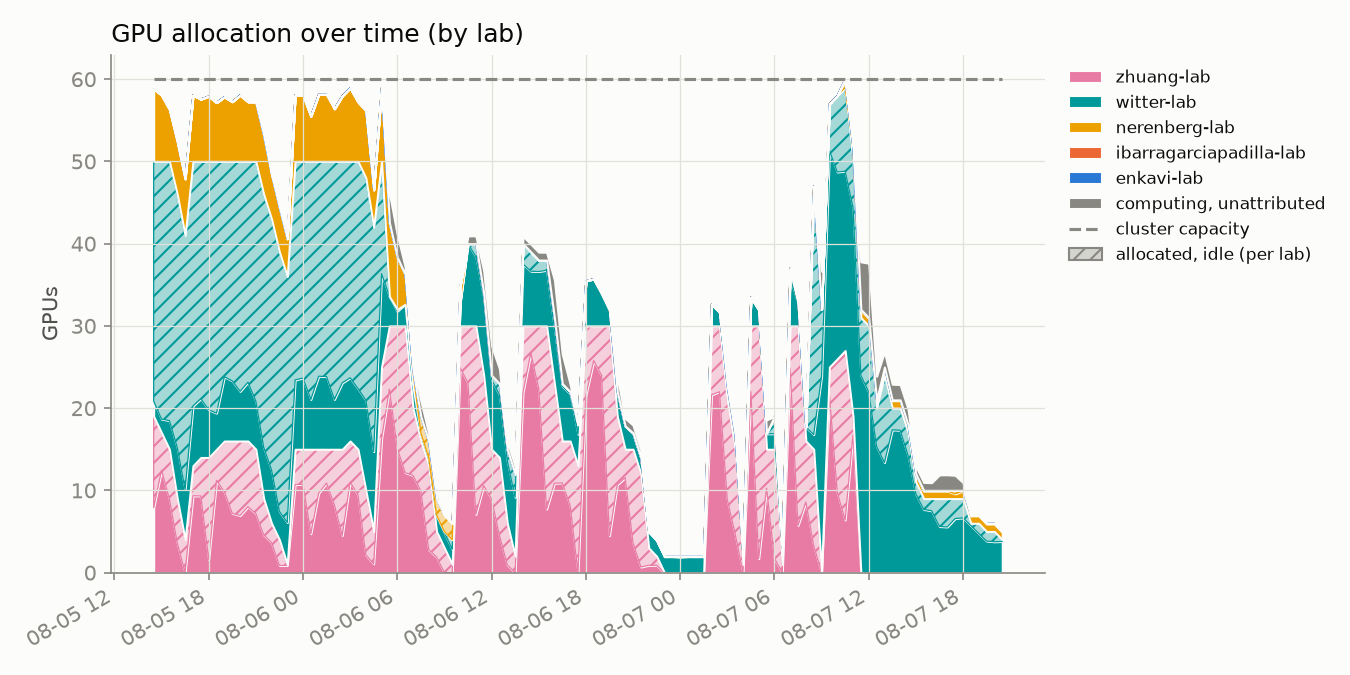
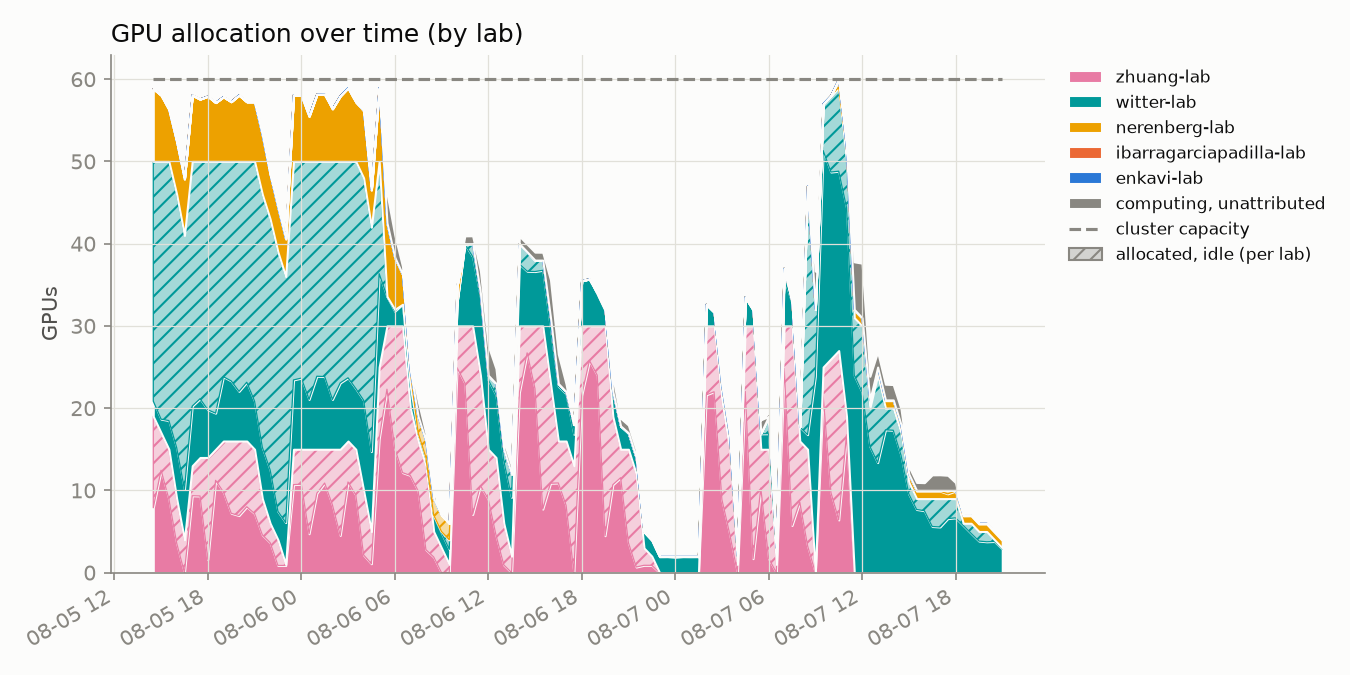
update 2026-08-07T21:00:01-07:00

diff --git a/README.md b/README.md
@@ -2,8 +2,8 @@
 
 Automated GPU/CPU/queue utilization tracker for `hopper.cluster`, updated every 30 minutes by cron. Usernames are anonymized to a stable per-account pseudonym; lab names are real.
 
-Last updated: 2026-08-07T20:30:14-07:00
-Samples: 109 queue snapshots, 109 GPU snapshots
+Last updated: 2026-08-07T21:00:08-07:00
+Samples: 110 queue snapshots, 110 GPU snapshots
 
 ## Resources
 
@@ -16,8 +16,8 @@ Samples: 109 queue snapshots, 109 GPU snapshots
 
 ## Headline
 
-- **49.7%** of the cluster's 60 GPUs allocated, averaged across all samples
-- **46.4%** average `nvidia-smi` utilization *when* a GPU is allocated to a job
+- **49.3%** of the cluster's 60 GPUs allocated, averaged across all samples
+- **46.5%** average `nvidia-smi` utilization *when* a GPU is allocated to a job
 - **87.2%** average cgroup CPU utilization *when* a CPU is allocated to a job
 
 ## Per lab / per user
@@ -26,14 +26,14 @@ Samples: 109 queue snapshots, 109 GPU snapshots
 <tr><th>Lab</th><th>User</th><th align='right'>GPU-hours allocated</th><th align='right'>CPU-hours allocated</th><th align='right'>GPU utilization</th></tr>
 <tr style='background-color:#fbebf1'><td>zhuang-lab</td><td>user-0db9ced0</td><td align='right'>722.0</td><td align='right'>722.0</td><td align='right'>48%</td></tr>
 <tr style='background-color:#d8efef'><td>witter-lab</td><td>user-d58f5a15</td><td align='right'>467.5</td><td align='right'>3740.0</td><td align='right'>9%</td></tr>
-<tr style='background-color:#d8efef'><td>witter-lab</td><td>user-554c620c</td><td align='right'>386.5</td><td align='right'>884.0</td><td align='right'>66%</td></tr>
+<tr style='background-color:#d8efef'><td>witter-lab</td><td>user-554c620c</td><td align='right'>388.0</td><td align='right'>885.5</td><td align='right'>66%</td></tr>
 <tr style='background-color:#fcf0d8'><td>nerenberg-lab</td><td>user-6bb5f332</td><td align='right'>40.0</td><td align='right'>200.0</td><td align='right'>71%</td></tr>
-<tr style='background-color:#fcf0d8'><td>nerenberg-lab</td><td>user-fedb5feb</td><td align='right'>10.5</td><td align='right'>42.0</td><td align='right'>55%</td></tr>
-<tr style='background-color:#fce8e0'><td>ibarragarciapadilla-lab</td><td>user-dad71a72</td><td align='right'>0.0</td><td align='right'>6.0</td><td align='right'>—</td></tr>
+<tr style='background-color:#fcf0d8'><td>nerenberg-lab</td><td>user-fedb5feb</td><td align='right'>11.0</td><td align='right'>42.5</td><td align='right'>56%</td></tr>
 <tr style='background-color:#fcf0d8'><td>nerenberg-lab</td><td>user-b12dc074</td><td align='right'>0.0</td><td align='right'>16.0</td><td align='right'>—</td></tr>
-<tr style='background-color:#fce8e0'><td>ibarragarciapadilla-lab</td><td>user-3cfc41a3</td><td align='right'>0.0</td><td align='right'>3742.5</td><td align='right'>—</td></tr>
-<tr style='background-color:#fce8e0'><td>ibarragarciapadilla-lab</td><td>user-eec7ffae</td><td align='right'>0.0</td><td align='right'>426.5</td><td align='right'>—</td></tr>
+<tr style='background-color:#fce8e0'><td>ibarragarciapadilla-lab</td><td>user-3cfc41a3</td><td align='right'>0.0</td><td align='right'>3750.0</td><td align='right'>—</td></tr>
 <tr style='background-color:#dfeaf8'><td>enkavi-lab</td><td>user-c21bdaa4</td><td align='right'>0.0</td><td align='right'>171.0</td><td align='right'>—</td></tr>
+<tr style='background-color:#fce8e0'><td>ibarragarciapadilla-lab</td><td>user-dad71a72</td><td align='right'>0.0</td><td align='right'>6.0</td><td align='right'>—</td></tr>
+<tr style='background-color:#fce8e0'><td>ibarragarciapadilla-lab</td><td>user-eec7ffae</td><td align='right'>0.0</td><td align='right'>426.5</td><td align='right'>—</td></tr>
 </table>
 
 ## Usage over time
@@ -44,7 +44,7 @@ Samples: 109 queue snapshots, 109 GPU snapshots
 
 Solid = utilized by lab, hatched = allocated but idle, gray = usage not traceable to a lab, dashed line = cluster capacity.
 
-Attribution combines `nvidia-smi`'s process listing with Slurm's GPU-to-job binding record; the latter caught **2431** readings the former missed.
+Attribution combines `nvidia-smi`'s process listing with Slurm's GPU-to-job binding record; the latter caught **2433** readings the former missed.
 
 ## Queue
 
@@ -56,13 +56,13 @@ Attribution combines `nvidia-smi`'s process listing with Slurm's GPU-to-job bind
 
 ![CPU usage vs GPU usage, decayed](assets/cpu_gpu_usage.png)
 
-One point per user per snapshot (n=528), usage decayed on Slurm's ~7-day fairshare half-life.
+One point per user per snapshot (n=532), usage decayed on Slurm's ~7-day fairshare half-life.
 
 **GPU usage doesn't count toward priority on this cluster** (`TRESBillingWeights`/`PriorityWeightTRES` unset) - watch the **upper-left**: low CPU usage (high priority) with high GPU usage.
 
 ## Recommendations
 
-1. **Weight GPU usage in fairshare.** `TRESBillingWeights` and `PriorityWeightTRES` are both unset right now, so Slurm's fairshare score only sees CPU-seconds - a job holding 4 idle L40S GPUs costs nothing in priority as long as it isn't also holding CPUs. That's the exact failure mode the scatter above is built to catch (upper-left: low CPU usage, high GPU usage). Fix: `scontrol update partition=main TRESBillingWeights=CPU=1.0,GRES/gpu=<weight>` (or set `PriorityWeightTRES` cluster-wide), then `scontrol reconfigure` - a full `slurmctld` restart also works but drops in-flight priority state. A reasonable starting point for `<weight>` is the CPUs-per-GPU ratio on a GPU node (128 CPUs / 4 GPUs = 32), so one GPU costs as much fairshare as the CPU share it displaces; tune from there against next week's headline numbers (49.7% allocated, 46.4% utilized when allocated, as of this snapshot). The weight value itself is a policy call - loop in whoever owns cluster allocation policy before changing it.
+1. **Weight GPU usage in fairshare.** `TRESBillingWeights` and `PriorityWeightTRES` are both unset right now, so Slurm's fairshare score only sees CPU-seconds - a job holding 4 idle L40S GPUs costs nothing in priority as long as it isn't also holding CPUs. That's the exact failure mode the scatter above is built to catch (upper-left: low CPU usage, high GPU usage). Fix: `scontrol update partition=main TRESBillingWeights=CPU=1.0,GRES/gpu=<weight>` (or set `PriorityWeightTRES` cluster-wide), then `scontrol reconfigure` - a full `slurmctld` restart also works but drops in-flight priority state. A reasonable starting point for `<weight>` is the CPUs-per-GPU ratio on a GPU node (128 CPUs / 4 GPUs = 32), so one GPU costs as much fairshare as the CPU share it displaces; tune from there against next week's headline numbers (49.3% allocated, 46.5% utilized when allocated, as of this snapshot). The weight value itself is a policy call - loop in whoever owns cluster allocation policy before changing it.
 
 2. **Escalate on sustained low utilization** (see table and scatter above). Right now the clearest candidate is `user-d58f5a15` in `witter-lab`: 467.5 GPU-hours allocated at 9% average utilization, i.e. roughly 424 GPU-hours that sat idle instead of going to someone in the queue. Turning that into an automated escalation needs two decisions made up front: a utilization threshold (something like under 20% mean utilization over at least 50 allocated GPU-hours is a defensible starting bar - loose enough to skip short debugging runs, tight enough to catch parked allocations) and a grace period (how many consecutive low-utilization snapshots before it counts as "sustained" rather than a momentary lull between batches). Once those are set, the mechanism can be either soft (a bot that reads `data/gpu_samples.jsonl` and reminds the user/lab by email or Slack) or hard (a Slurm-side QOS penalty, e.g. `sacctmgr modify qos <qos> set Priority-=<n>`, applied after N consecutive offending snapshots). Neither exists yet - today the table and scatter above are a read-only signal, not an enforced policy.
 
